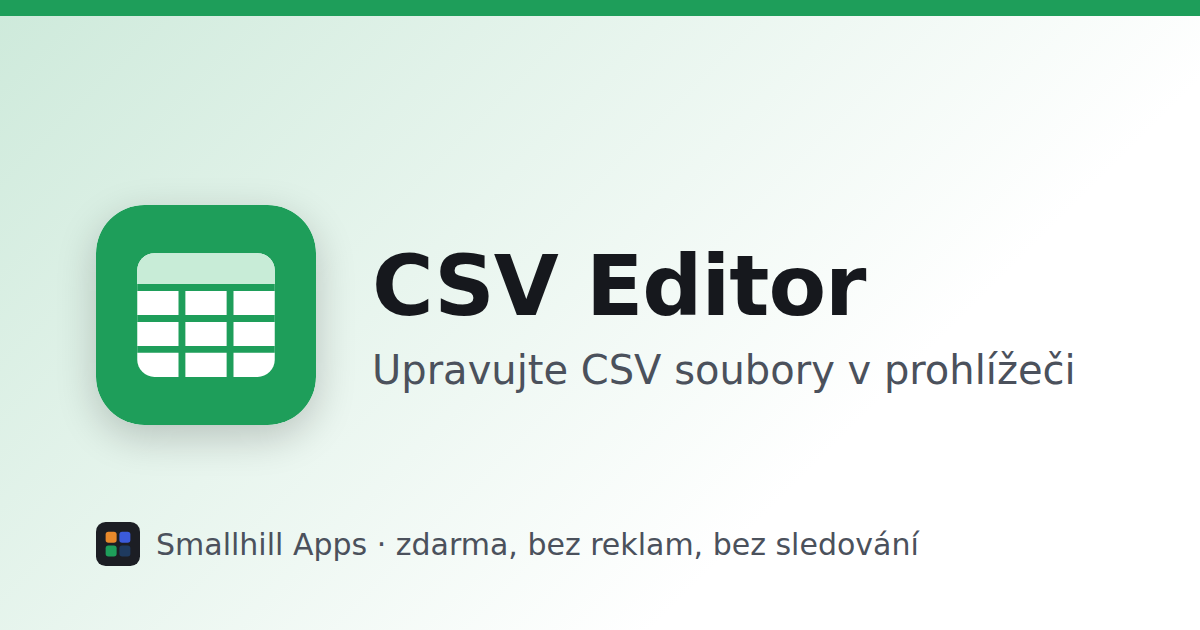
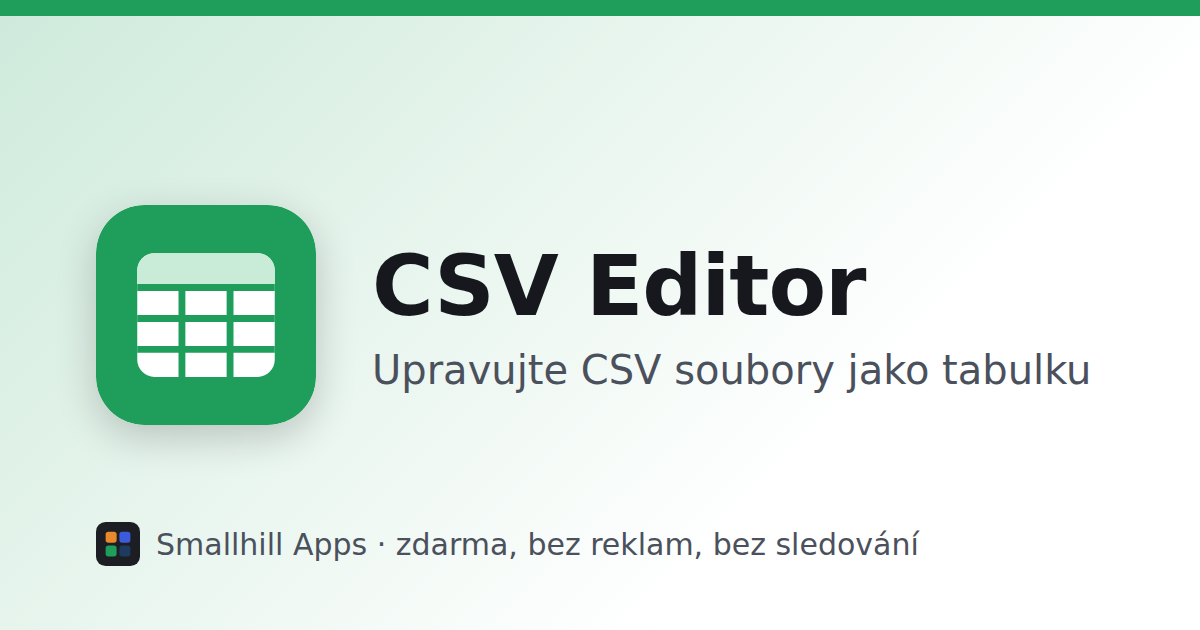
✨ feat(portal): add Zpěvník and drop "in the browser" from app descriptions
Claude-Session: https://claude.ai/code/session_018H1CHLad89qXWLEkoPwUt1

Changed region(s): [[0.7092, 0.5429, 0.925, 0.6333]]

diff --git a/apps/portal/src/app/apps.ts b/apps/portal/src/app/apps.ts
@@ -45,10 +45,10 @@ export const APPS: AppInfo[] = [
 		id: "csveditor",
 		name: { en: "CSV Editor", cs: "CSV Editor" },
 		url: "/csveditor/",
-		tagline: { en: "Edit CSV files in your browser", cs: "Upravujte CSV soubory v prohlížeči" },
+		tagline: { en: "Edit CSV files like a spreadsheet", cs: "Upravujte CSV soubory jako tabulku" },
 		description: {
-			en: "A spreadsheet-like editor for CSV files that runs entirely in your browser. Open and save CSV, sort and filter columns, use the formula bar, transform numbers, dates and markup, undo and redo, all in light or dark mode. Your files never leave your device.",
-			cs: "Editor CSV souborů ve stylu tabulkového procesoru, který běží celý v prohlížeči. Otevírejte a ukládejte CSV, řaďte a filtrujte sloupce, používejte řádek vzorců, převádějte čísla, data a značkování, vracejte změny zpět, ve světlém i tmavém režimu. Vaše soubory nikdy neopustí zařízení.",
+			en: "A spreadsheet-like editor for CSV files. Open and save CSV, sort and filter columns, use the formula bar, transform numbers, dates and markup, undo and redo, all in light or dark mode. Your files never leave your device.",
+			cs: "Editor CSV souborů ve stylu tabulkového procesoru. Otevírejte a ukládejte CSV, řaďte a filtrujte sloupce, používejte řádek vzorců, převádějte čísla, data a značkování, vracejte změny zpět, ve světlém i tmavém režimu. Vaše soubory nikdy neopustí zařízení.",
 		},
 		color: "#1e9e5a",
 		icon: "apps/csveditor/icon.svg",
@@ -58,10 +58,10 @@ export const APPS: AppInfo[] = [
 	{
 		id: "player",
 		name: { en: "Player", cs: "Přehrávač" },
-		tagline: { en: "Play music from your OneDrive", cs: "Hudba z OneDrivu v prohlížeči" },
+		tagline: { en: "Play music from your OneDrive", cs: "Hudba z vašeho OneDrivu" },
 		description: {
-			en: "Sign in with your Microsoft account, browse your OneDrive folders and play MP3s and other audio files right in the browser. Play a whole folder in order or shuffled, and control playback from the lock screen or your headphones. Music streams straight from OneDrive to your device and the app can only read your files.",
-			cs: "Přihlaste se účtem Microsoft, procházejte složky na OneDrivu a přehrávejte MP3 a další zvukové soubory přímo v prohlížeči. Pusťte celou složku popořadě nebo náhodně a ovládejte přehrávání ze zamčené obrazovky nebo ze sluchátek. Hudba se přehrává přímo z OneDrivu do vašeho zařízení a aplikace vaše soubory může jen číst.",
+			en: "Sign in with your Microsoft account, browse your OneDrive folders and play MP3s and other audio files. Play a whole folder in order or shuffled, and control playback from the lock screen or your headphones. Music streams straight from OneDrive to your device and the app can only read your files.",
+			cs: "Přihlaste se účtem Microsoft, procházejte složky na OneDrivu a přehrávejte MP3 a další zvukové soubory. Pusťte celou složku popořadě nebo náhodně a ovládejte přehrávání ze zamčené obrazovky nebo ze sluchátek. Hudba se přehrává přímo z OneDrivu do vašeho zařízení a aplikace vaše soubory může jen číst.",
 		},
 		color: "#7048e8",
 		icon: "apps/player/icon.svg",
@@ -81,6 +81,20 @@ export const APPS: AppInfo[] = [
 		icon: "apps/jachtarskaknizka/icon.png",
 		screenshots: ["apps/jachtarskaknizka/screenshot-1.webp"],
 		url: "https://jachtarskaknizka.eu/",
+		listed: true,
+	},
+	{
+		id: "zpevniky",
+		name: { en: "Zpěvník", cs: "Zpěvník" },
+		tagline: { en: "Chords and lyrics for playing", cs: "Akordy a texty pro hraní" },
+		description: {
+			en: "Songs with chords and lyrics, browsable by artist, songbook or title. Download songs for offline use, play together with friends from one shared song list, keep your favourites and tune your instrument with the built-in tuner.",
+			cs: "Písně s akordy a texty, procházejte je podle interpretů, zpěvníků nebo názvů. Stáhněte si písně pro offline použití, hrajte spolu s přáteli podle společného seznamu písní, ukládejte si oblíbené a nalaďte nástroj vestavěnou ladičkou.",
+		},
+		color: "#ff9800",
+		icon: "apps/zpevniky/icon.png",
+		screenshots: ["apps/zpevniky/screenshot-1.webp", "apps/zpevniky/screenshot-2.webp"],
+		url: "https://app.dev.zpevniky.com/",
 		listed: true,
 	},
 ];

diff --git a/apps/portal/public/app/player/index.html b/apps/portal/public/app/player/index.html
@@ -4,7 +4,7 @@
 		<meta charset="utf-8" />
 		<title>Přehrávač · Smallhill Apps</title>
 		<meta name="viewport" content="width=device-width, initial-scale=1" />
-		<meta name="description" content="Hudba z OneDrivu v prohlížeči" />
+		<meta name="description" content="Hudba z vašeho OneDrivu" />
 		<link rel="canonical" href="https://apps.smallhill.cz/app/player/" />
 		<link rel="icon" type="image/svg+xml" href="/favicon.svg" />
 		<meta property="og:type" content="website" />
@@ -12,11 +12,11 @@
 		<meta property="og:locale" content="cs_CZ" />
 		<meta property="og:url" content="https://apps.smallhill.cz/app/player/" />
 		<meta property="og:title" content="Přehrávač" />
-		<meta property="og:description" content="Přihlaste se účtem Microsoft, procházejte složky na OneDrivu a přehrávejte MP3 a další zvukové soubory přímo v prohlížeči. Pusťte celou složku popořadě nebo náhodně a ovládejte přehrávání ze zamčené obrazovky nebo ze sluchátek. Hudba se přehrává přímo z OneDrivu do vašeho zařízení a aplikace vaše soubory může jen číst." />
+		<meta property="og:description" content="Přihlaste se účtem Microsoft, procházejte složky na OneDrivu a přehrávejte MP3 a další zvukové soubory. Pusťte celou složku popořadě nebo náhodně a ovládejte přehrávání ze zamčené obrazovky nebo ze sluchátek. Hudba se přehrává přímo z OneDrivu do vašeho zařízení a aplikace vaše soubory může jen číst." />
 		<meta property="og:image" content="https://apps.smallhill.cz/apps/player/og.png" />
 		<meta property="og:image:width" content="1200" />
 		<meta property="og:image:height" content="630" />
-		<meta property="og:image:alt" content="Přehrávač: Hudba z OneDrivu v prohlížeči" />
+		<meta property="og:image:alt" content="Přehrávač: Hudba z vašeho OneDrivu" />
 		<meta name="twitter:card" content="summary_large_image" />
 		<meta http-equiv="refresh" content="0; url=/#player" />
 		<script>

diff --git a/apps/portal/public/app/csveditor/index.html b/apps/portal/public/app/csveditor/index.html
@@ -4,7 +4,7 @@
 		<meta charset="utf-8" />
 		<title>CSV Editor · Smallhill Apps</title>
 		<meta name="viewport" content="width=device-width, initial-scale=1" />
-		<meta name="description" content="Upravujte CSV soubory v prohlížeči" />
+		<meta name="description" content="Upravujte CSV soubory jako tabulku" />
 		<link rel="canonical" href="https://apps.smallhill.cz/app/csveditor/" />
 		<link rel="icon" type="image/svg+xml" href="/favicon.svg" />
 		<meta property="og:type" content="website" />
@@ -12,11 +12,11 @@
 		<meta property="og:locale" content="cs_CZ" />
 		<meta property="og:url" content="https://apps.smallhill.cz/app/csveditor/" />
 		<meta property="og:title" content="CSV Editor" />
-		<meta property="og:description" content="Editor CSV souborů ve stylu tabulkového procesoru, který běží celý v prohlížeči. Otevírejte a ukládejte CSV, řaďte a filtrujte sloupce, používejte řádek vzorců, převádějte čísla, data a značkování, vracejte změny zpět, ve světlém i tmavém režimu. Vaše soubory nikdy neopustí zařízení." />
+		<meta property="og:description" content="Editor CSV souborů ve stylu tabulkového procesoru. Otevírejte a ukládejte CSV, řaďte a filtrujte sloupce, používejte řádek vzorců, převádějte čísla, data a značkování, vracejte změny zpět, ve světlém i tmavém režimu. Vaše soubory nikdy neopustí zařízení." />
 		<meta property="og:image" content="https://apps.smallhill.cz/apps/csveditor/og.png" />
 		<meta property="og:image:width" content="1200" />
 		<meta property="og:image:height" content="630" />
-		<meta property="og:image:alt" content="CSV Editor: Upravujte CSV soubory v prohlížeči" />
+		<meta property="og:image:alt" content="CSV Editor: Upravujte CSV soubory jako tabulku" />
 		<meta name="twitter:card" content="summary_large_image" />
 		<meta http-equiv="refresh" content="0; url=/#csveditor" />
 		<script>

diff --git a/apps/portal/public/app/zpevniky/index.html b/apps/portal/public/app/zpevniky/index.html
@@ -1,0 +1,29 @@
+<!doctype html>
+<html lang="cs">
+	<head>
+		<meta charset="utf-8" />
+		<title>Zpěvník · Smallhill Apps</title>
+		<meta name="viewport" content="width=device-width, initial-scale=1" />
+		<meta name="description" content="Akordy a texty pro hraní" />
+		<link rel="canonical" href="https://apps.smallhill.cz/app/zpevniky/" />
+		<link rel="icon" type="image/svg+xml" href="/favicon.svg" />
+		<meta property="og:type" content="website" />
+		<meta property="og:site_name" content="Smallhill Apps" />
+		<meta property="og:locale" content="cs_CZ" />
+		<meta property="og:url" content="https://apps.smallhill.cz/app/zpevniky/" />
+		<meta property="og:title" content="Zpěvník" />
+		<meta property="og:description" content="Písně s akordy a texty, procházejte je podle interpretů, zpěvníků nebo názvů. Stáhněte si písně pro offline použití, hrajte spolu s přáteli podle společného seznamu písní, ukládejte si oblíbené a nalaďte nástroj vestavěnou ladičkou." />
+		<meta property="og:image" content="https://apps.smallhill.cz/apps/zpevniky/og.png" />
+		<meta property="og:image:width" content="1200" />
+		<meta property="og:image:height" content="630" />
+		<meta property="og:image:alt" content="Zpěvník: Akordy a texty pro hraní" />
+		<meta name="twitter:card" content="summary_large_image" />
+		<meta http-equiv="refresh" content="0; url=/#zpevniky" />
+		<script>
+			location.replace("/#zpevniky");
+		</script>
+	</head>
+	<body>
+		<a href="/#zpevniky">Zpěvník</a>
+	</body>
+</html>

diff --git a/apps/player/src/app/i18n.ts b/apps/player/src/app/i18n.ts
@@ -5,7 +5,7 @@ export type Lang = "en" | "cs";
 const en = {
 	title: "Player",
 	heading: "Your music from OneDrive",
-	intro: "Sign in with your Microsoft account, browse your OneDrive folders and play MP3s and other audio files right in the browser.",
+	intro: "Sign in with your Microsoft account, browse your OneDrive folders and play MP3s and other audio files.",
 	signIn: "Sign in with Microsoft",
 	signOut: "Sign out",
 	loading: "Loading…",
@@ -37,7 +37,7 @@ const en = {
 const cs: typeof en = {
 	title: "Přehrávač",
 	heading: "Vaše hudba z OneDrivu",
-	intro: "Přihlaste se účtem Microsoft, procházejte složky na OneDrivu a přehrávejte MP3 a další zvukové soubory přímo v prohlížeči.",
+	intro: "Přihlaste se účtem Microsoft, procházejte složky na OneDrivu a přehrávejte MP3 a další zvukové soubory.",
 	signIn: "Přihlásit se přes Microsoft",
 	signOut: "Odhlásit",
 	loading: "Načítám…",

diff --git a/apps/player/src/index.html b/apps/player/src/index.html
@@ -5,7 +5,7 @@
 		<title>Player</title>
 		<base href="/" />
 		<meta name="viewport" content="width=device-width, initial-scale=1, viewport-fit=cover" />
-		<meta name="description" content="Play music from your OneDrive in the browser. No ads, no tracking." />
+		<meta name="description" content="Play music from your OneDrive. No ads, no tracking." />
 		<meta name="theme-color" content="#7048e8" />
 		<link rel="icon" type="image/png" href="icons/icon-192x192.png" />
 		<link rel="apple-touch-icon" href="icons/icon-192x192.png" />

diff --git a/README.md b/README.md
@@ -4,13 +4,14 @@ Simple, ad-free, no-tracking apps served at https://apps.smallhill.cz.
 
 ## Apps
 
-| App                                                                           | Path                                   | Stack                           |
-| ----------------------------------------------------------------------------- | -------------------------------------- | ------------------------------- |
-| [Tuner](apps/tuner)                                                           | `/tuner/`                              | Angular PWA, FE only            |
-| [Scheduler](apps/scheduler)                                                   | `/scheduler/`                          | Angular PWA + Fastify/Postgres  |
-| [CSV Editor](apps/csveditor)                                                  | `/csveditor/`                          | Angular, FE only                |
-| [Player](apps/player)                                                         | `/player/`                             | Angular PWA + OneDrive, FE only |
-| [Jachtařská knížka](https://github.com/SmallhillCZ/jachtarskaknizka-1d489984) | https://jachtarskaknizka.eu (own repo) | React + TanStack Start, FE only |
+| App                                                                           | Path                                    | Stack                           |
+| ----------------------------------------------------------------------------- | --------------------------------------- | ------------------------------- |
+| [Tuner](apps/tuner)                                                           | `/tuner/`                               | Angular PWA, FE only            |
+| [Scheduler](apps/scheduler)                                                   | `/scheduler/`                           | Angular PWA + Fastify/Postgres  |
+| [CSV Editor](apps/csveditor)                                                  | `/csveditor/`                           | Angular, FE only                |
+| [Player](apps/player)                                                         | `/player/`                              | Angular PWA + OneDrive, FE only |
+| [Jachtařská knížka](https://github.com/SmallhillCZ/jachtarskaknizka-1d489984) | https://jachtarskaknizka.eu (own repo)  | React + TanStack Start, FE only |
+| Zpěvník                                                                       | https://app.dev.zpevniky.com (external) | PWA                             |
 
 ## Development
 

diff --git a/apps/csveditor/README.md b/apps/csveditor/README.md
@@ -1,6 +1,6 @@
 # CSV Editor
 
-Spreadsheet-like CSV editor that runs entirely in the browser. Served at https://apps.smallhill.cz/csveditor/.
+Spreadsheet-like CSV editor; files never leave your device. Served at https://apps.smallhill.cz/csveditor/.
 
 Angular 21 + ng-zorro-antd, frontend only. Originally developed in [SmallhillCZ/csveditor](https://github.com/SmallhillCZ/csveditor); history is preserved here.
 

diff --git a/apps/player/README.md b/apps/player/README.md
@@ -1,6 +1,6 @@
 # Player
 
-Play music from your OneDrive in the browser. Frontend-only Angular PWA, no ads, no tracking, no backend: the browser signs in with Microsoft and streams files straight from OneDrive.
+Play music from your OneDrive. Frontend-only Angular PWA, no ads, no tracking, no backend: the browser signs in with Microsoft and streams files straight from OneDrive.
 
 ## Features
 

diff --git a/apps/tuner/README.md b/apps/tuner/README.md
@@ -1,6 +1,6 @@
 # Tuner
 
-Simple guitar, bass and violin tuner. Frontend-only Angular PWA, no ads, no tracking. Audio is analyzed locally in the browser.
+Simple guitar, bass and violin tuner. Frontend-only Angular PWA, no ads, no tracking. Audio is analyzed locally on the device.
 
 ## Features
 
